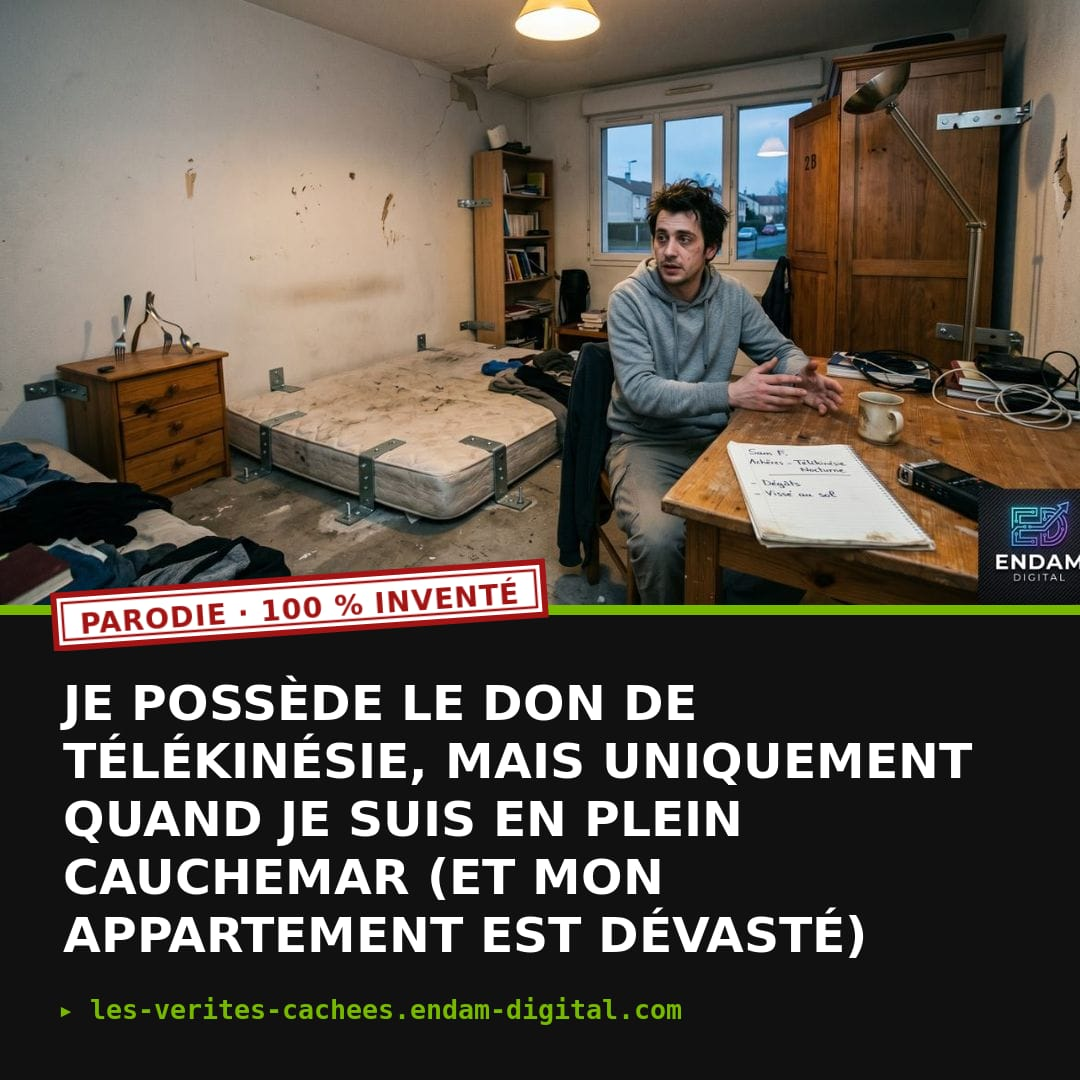
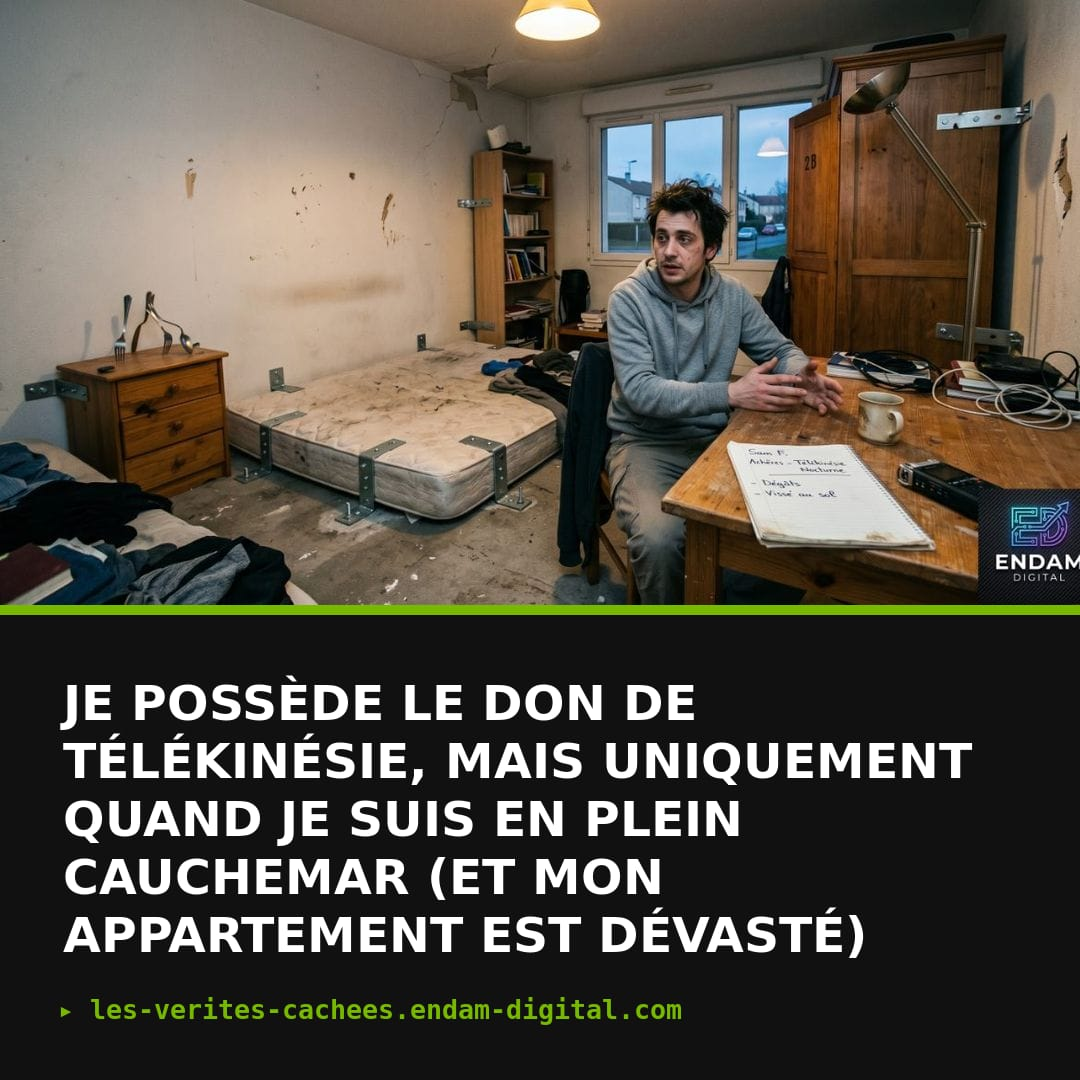
Unes réseaux sociaux : tampon PARODIE retiré (titre + adresse du site seulement)
Claude-Session: https://claude.ai/code/session_011gpdtS2eg3bksoF2RyR95M

Changed region(s): [[0.0306, 0.5194, 0.5194, 0.6111]]

diff --git a/outils/unes.html b/outils/unes.html
@@ -19,7 +19,7 @@
 <div class="container" style="max-width:900px">
   <header><a href="/"><img src="/logo_chat_loupe.png" alt=""><h1>Unes prêtes à poster<br><span class="slogan">générées automatiquement</span></h1></a></header>
   <div class="content">
-    <p>Pour chaque enquête, la GitHub Action fabrique un visuel <strong>carré</strong> (Instagram, X, Facebook) et un visuel <strong>story</strong> (Stories, TikTok, Reels), avec le tampon PARODIE. Pour un visuel personnalisé (bandeau, accroche…), utilise le <a href="/outils/generateur-une.html">générateur de unes</a>.</p>
+    <p>Pour chaque enquête, la GitHub Action fabrique un visuel <strong>carré</strong> (Instagram, X, Facebook) et un visuel <strong>story</strong> (Stories, TikTok, Reels). Pour un visuel personnalisé (bandeau, accroche…), utilise le <a href="/outils/generateur-une.html">générateur de unes</a>.</p>
     <div id="list">Chargement…</div>
   </div>
   <div class="back-bar"><a class="back-link" href="/">← Retour au blog</a></div>
